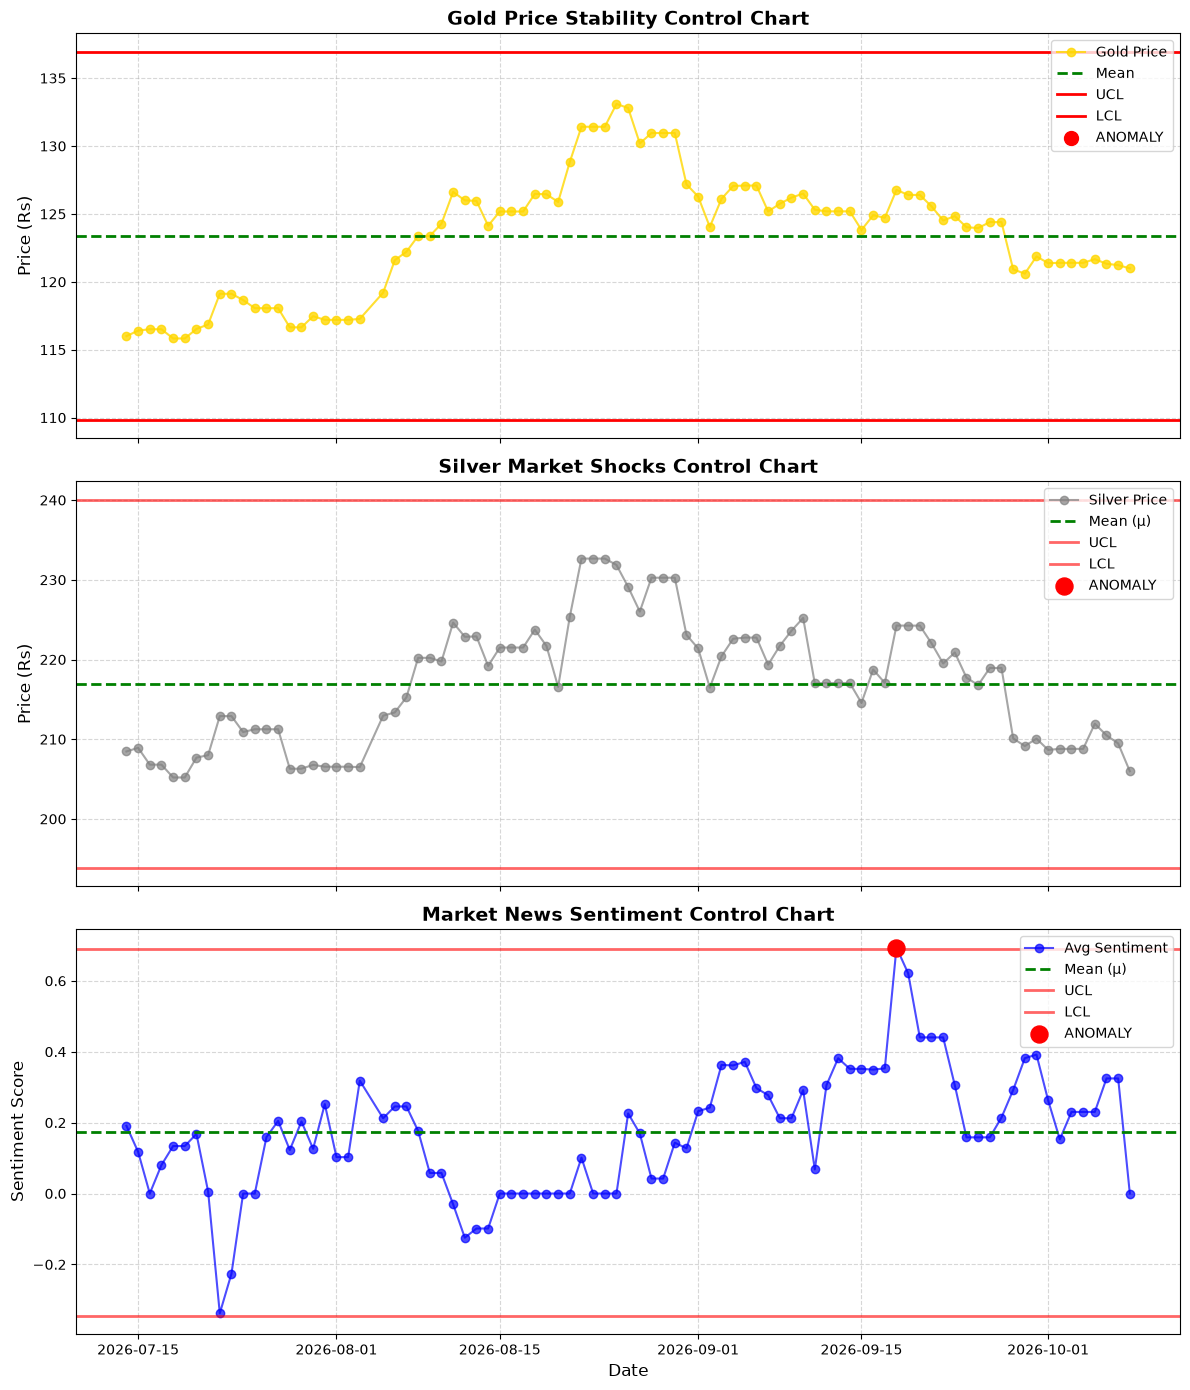
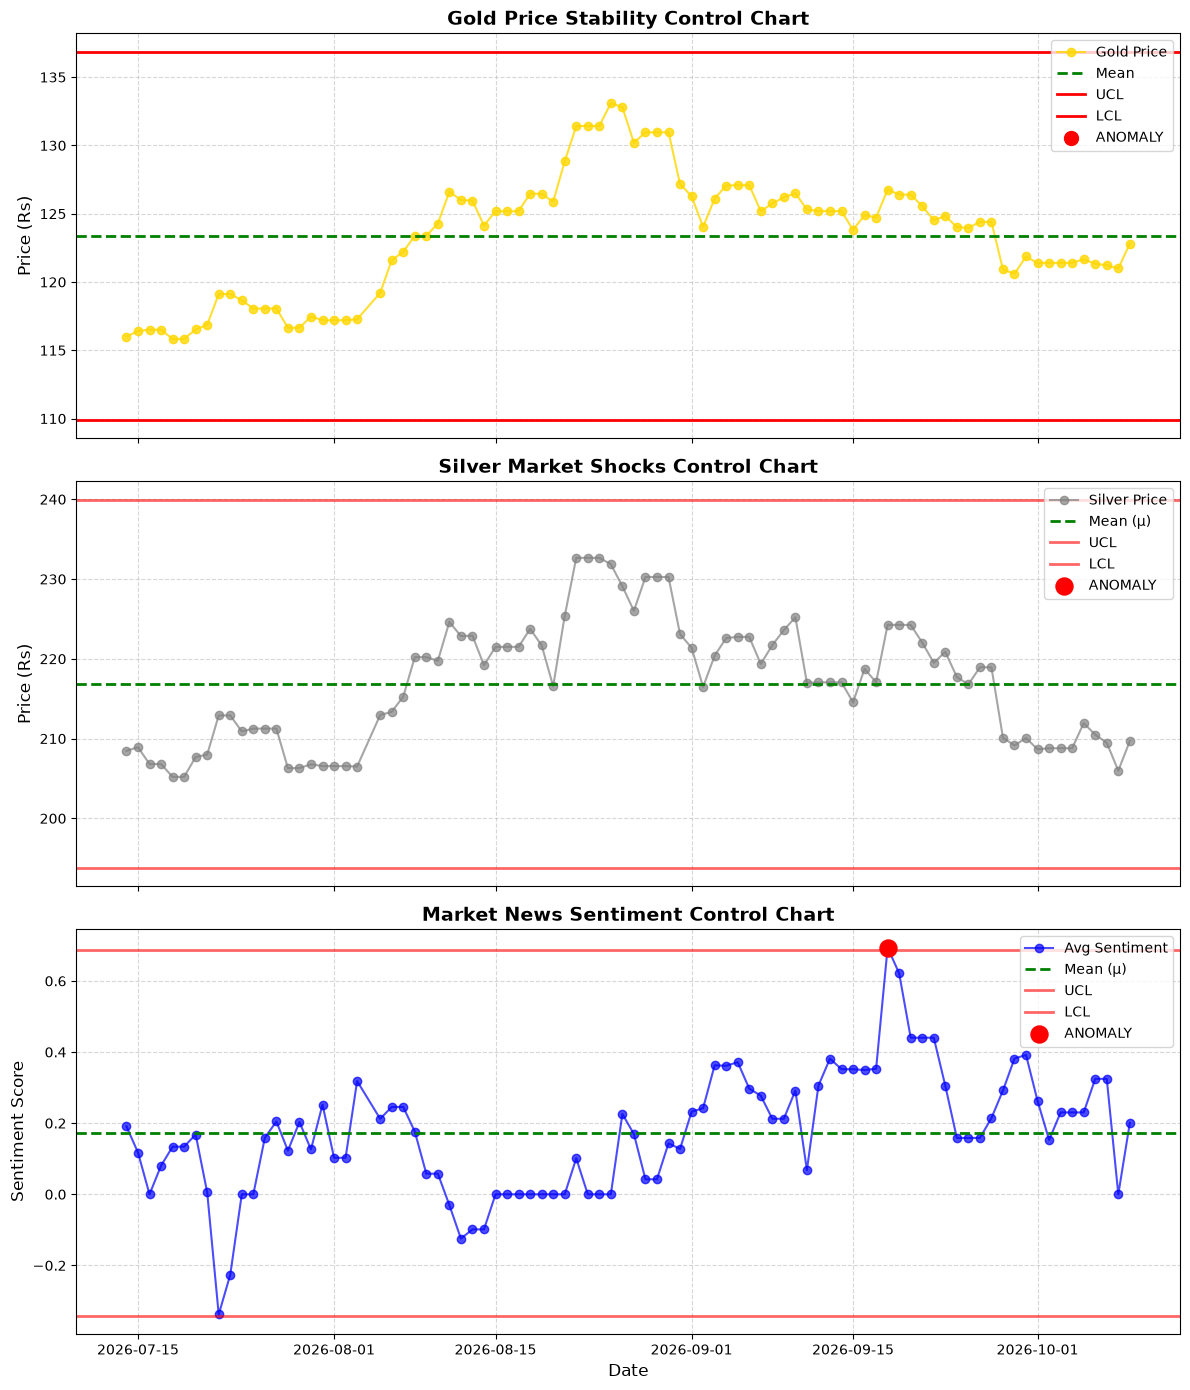
Automated Market Data & SQC Refresh

diff --git a/index.html b/index.html
@@ -146,7 +146,7 @@
     <body>
         <div class="container">
             <h1>Market Sentiment Tracker (Automated)</h1>
-            <div class="timestamp">Live Data Refreshed: 08 October 2026, 09:21 AM</div>
+            <div class="timestamp">Live Data Refreshed: 09 October 2026, 09:29 AM</div>
             
             <!-- 1. Executive Summary -->
             <h3>Executive Summary</h3>
@@ -170,27 +170,27 @@
                     <tbody>
                         <tr>
                             <td><strong>Gold ETF (Rs)</strong></td>
-                            <td>120.99</td>
+                            <td>122.81</td>
                             <td>123.4</td>
-                            <td>109.85</td>
-                            <td>136.96</td>
+                            <td>109.92</td>
+                            <td>136.88</td>
                             <td>🟢 NORMAL</td>
                         </tr>
                         <tr>
                             <td><strong>Silver ETF (Rs)</strong></td>
-                            <td>205.98</td>
-                            <td>216.97</td>
-                            <td>193.88</td>
-                            <td>240.07</td>
+                            <td>209.7</td>
+                            <td>216.89</td>
+                            <td>193.81</td>
+                            <td>239.97</td>
                             <td>🟢 NORMAL</td>
                         </tr>
                         <!-- NEW: Market Sentiment Row -->
                         <tr class="sentiment-row">
                             <td><strong>Banking News Sentiment</strong></td>
-                            <td>0.0</td>
-                            <td>0.1724</td>
-                            <td>-0.3448</td>
-                            <td>0.6897</td>
+                            <td>0.201</td>
+                            <td>0.1728</td>
+                            <td>-0.3416</td>
+                            <td>0.6871</td>
                             <td>🟢 NORMAL</td>
                         </tr>
                     </tbody>
